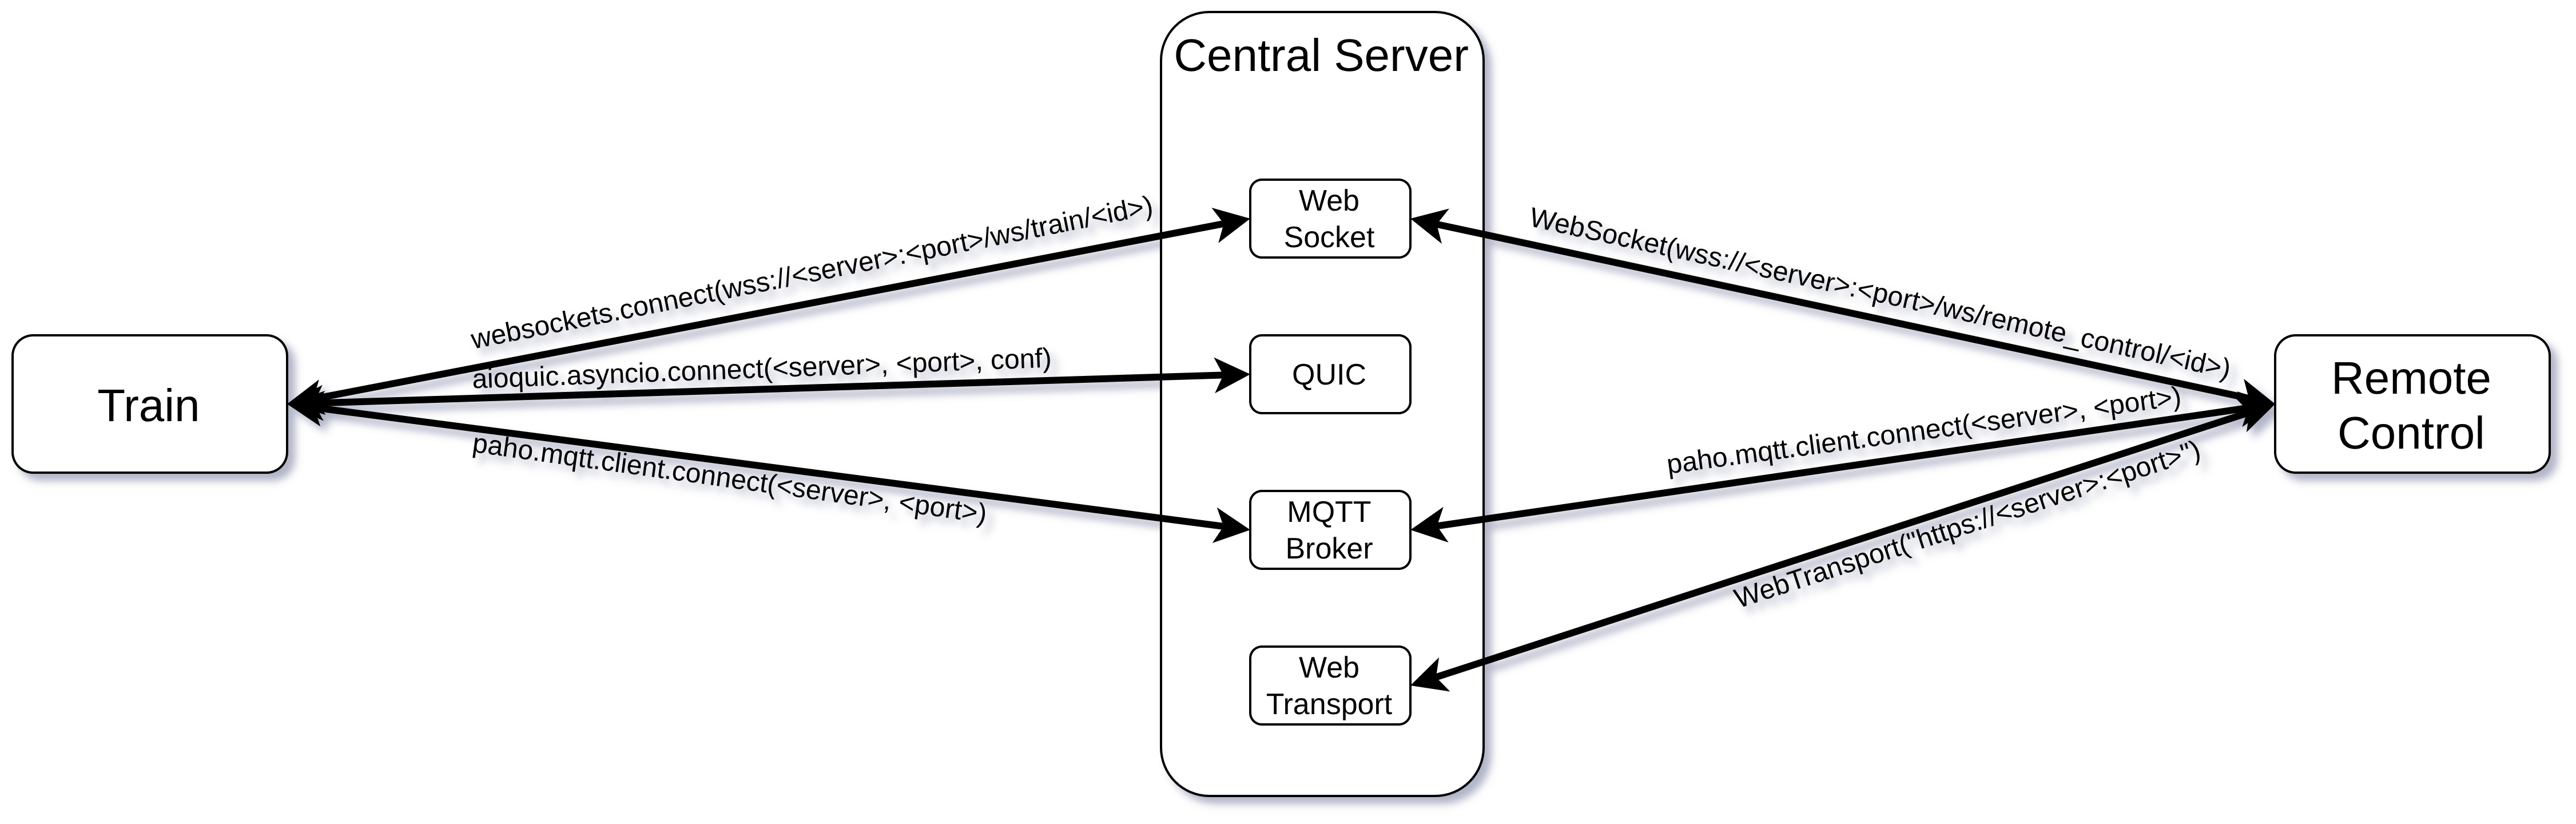
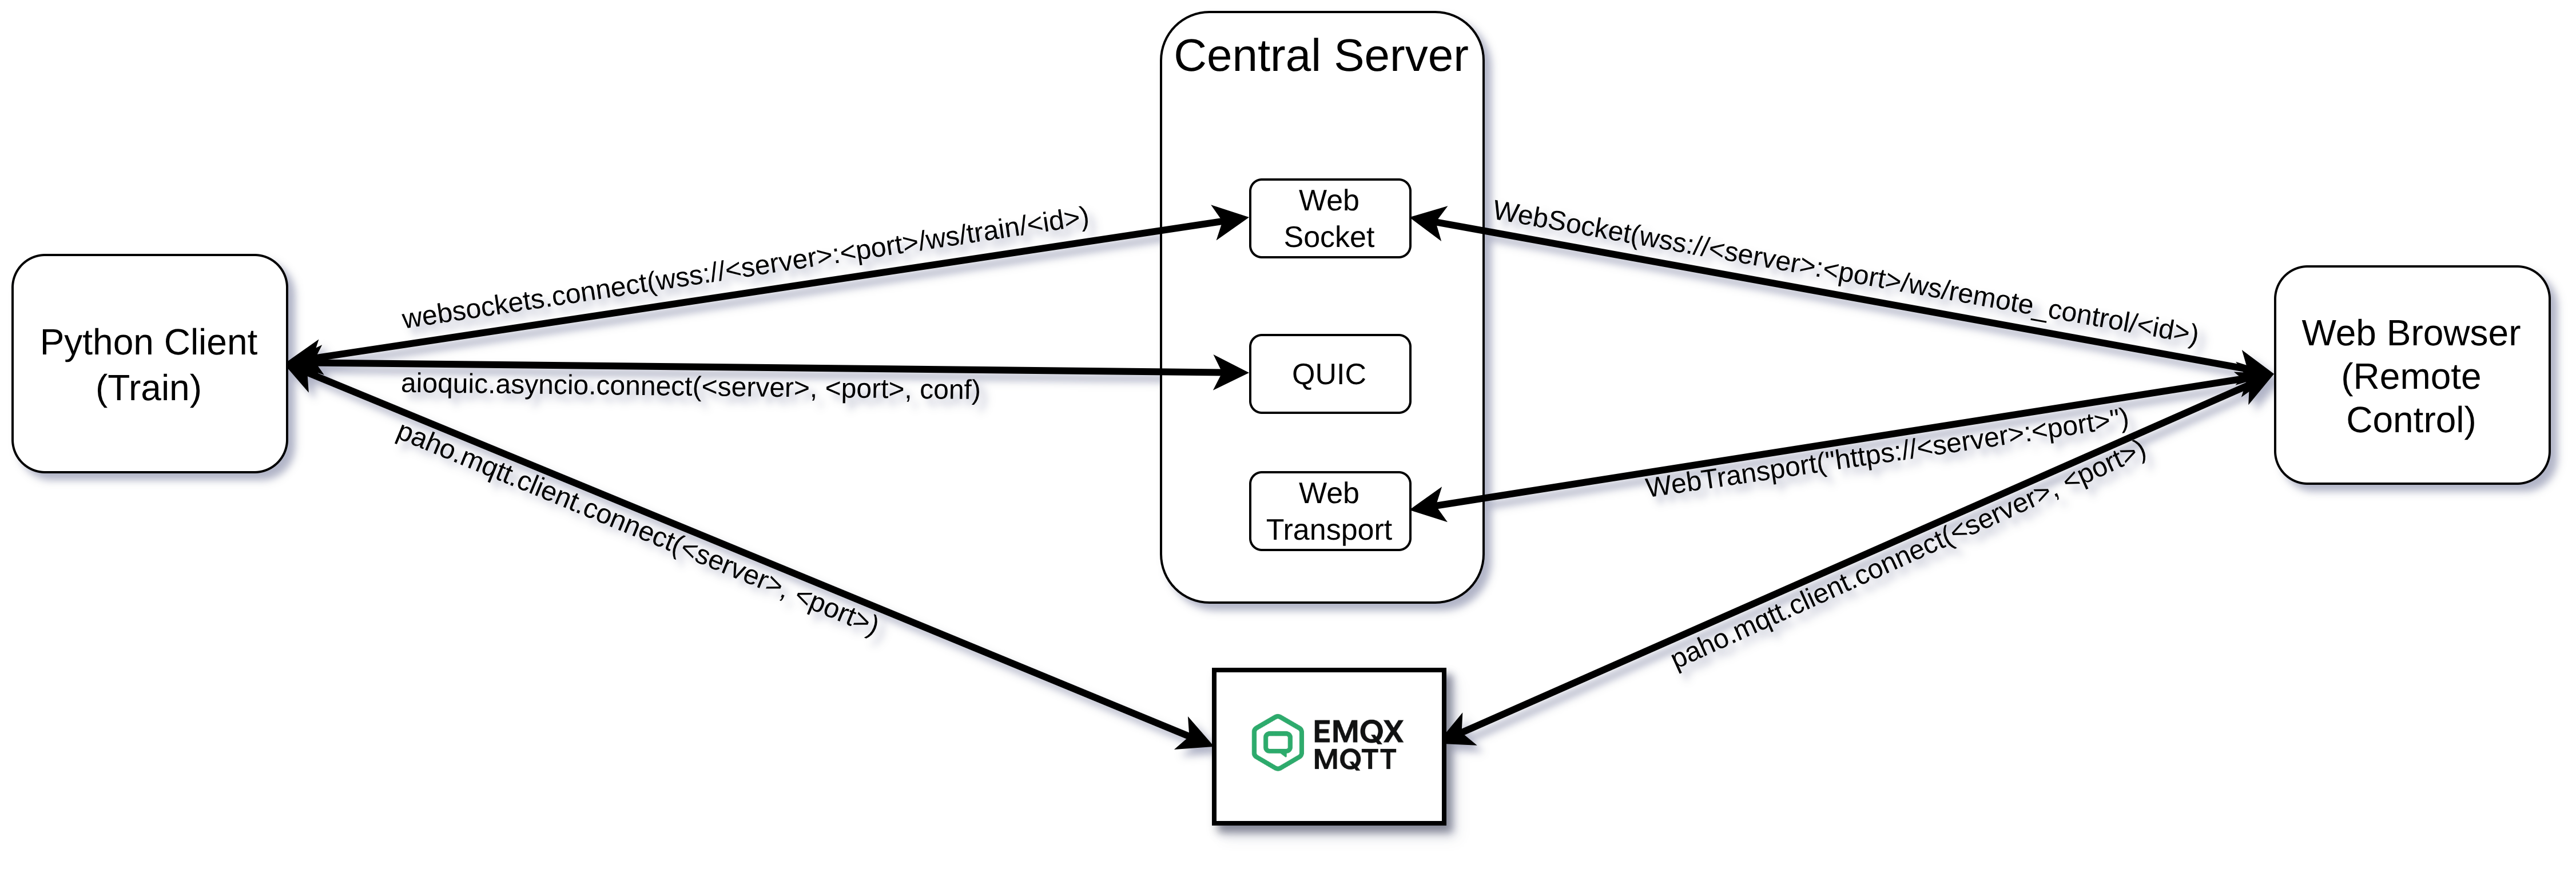
Add makefile to convert svg to pdf

diff --git a/section/system_architecture.tex b/section/system_architecture.tex
@@ -17,7 +17,7 @@
 
 		\begin{figure*}[t]
 			\centering
-			\includegraphics[width=\textwidth]{images/System_Architecture.png}
+			\includegraphics[width=\textwidth]{images/System_Architecture.pdf}
 			\caption{System Architecture showing communication among different modules}
 			\label{fig:system-architecture}
 		\end{figure*}